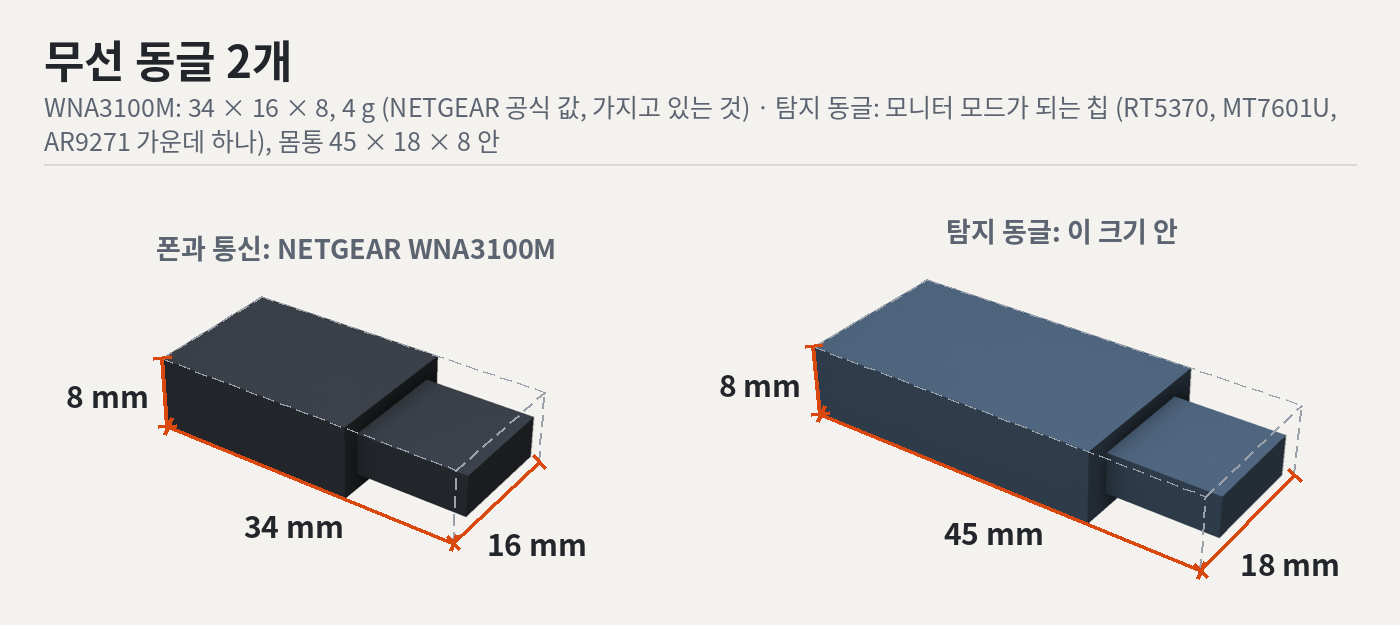
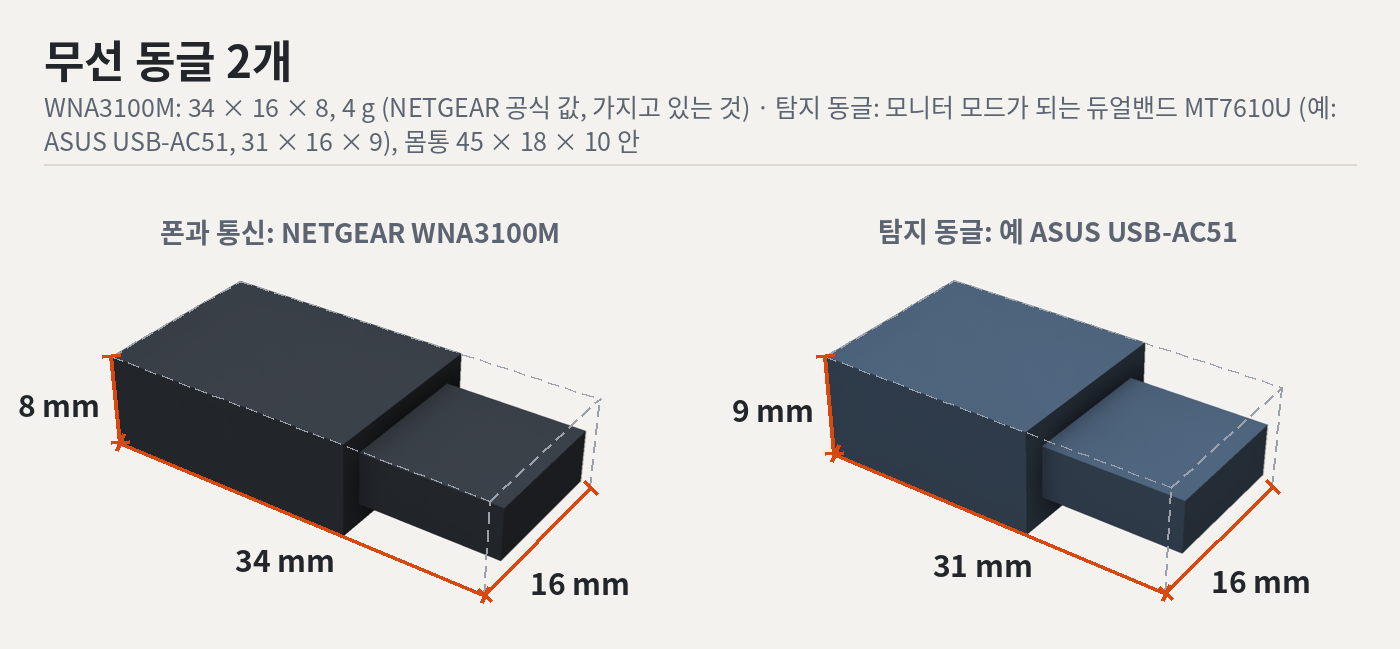
feat: 5GHz 탐지 지원 (듀얼밴드 동글, 채널 선택, 5GHz 회절 시뮬레이션)
- detect.py: 동글이 들을 수 있는 채널을 iw phy 에서 읽고, 처음 한 바퀴는 5GHz 를 모두, 그 뒤로는 AP 가 들린 5GHz 채널만 (5바퀴마다 다시 모두)
- node.py: 탐지·점검이 동글의 대역을 그대로 쓴다
- tests/test_band.py: iw phy 읽기와 채널 고르기 검사
- sim/direction/band5.py: 같은 판으로 5GHz(36·149번)에서 골과 방향 오차. 골이 더 깊고(-23dB) 30도 넘게 틀리는 비율이 12% -> 4~5%. 골 폭이 3도로 좁다
- 탐지 동글을 MT7610U 듀얼밴드(예: ASUS USB-AC51, 31x16x9)로 권함. 동글 칸 검사(dongle_gap)를 45x18x10 까지로 넓힘. 설계 바꿀 곳 없음
- 문서: 부품표, 탐지 동글 고르기, 설계 검토 2절, 의심 점수 8절

diff --git a/firmware/pi/detect.py b/firmware/pi/detect.py
@@ -20,12 +20,16 @@
   작은 프레임만 많이 보내는 기기(영상을 받는 쪽이 보내는 응답)와 가끔만 보내는 기기는 빠진다.
   영상 통화나 화면 공유처럼 카메라가 아닌데 많이 내보내는 기기는 여기서 못 가린다: 그것은 다음 단계(판별)가 한다.
 한계
-  안테나가 하나인 2.4GHz 동글은 5GHz 를 못 듣고, 안테나 두 개로 한꺼번에 보내는(2 스트림) 프레임도 못 읽는다. 몰래카메라는 거의 2.4GHz·안테나 하나다.
+  2.4GHz 전용 동글(RT5370, MT7601U)은 5GHz 를 못 듣는다. 듀얼밴드 동글(MT7610U, MT7612U)이면 5GHz 도 듣는다:
+  처음 한 바퀴는 5GHz 를 모두 훑고, 그 뒤로는 AP 가 들린 5GHz 채널만 돈다 (카메라는 어딘가의 AP 에 붙어야 하므로). FULL5 바퀴마다 다시 모두 훑는다.
+  안테나가 하나인 동글은 두 개로 한꺼번에 보내는(2 스트림) 프레임을 못 읽는다. 몰래카메라는 거의 안테나 하나다.
 """
 from __future__ import print_function
 import os, struct, subprocess, sys, time
 
 CH24 = (1, 2, 3, 4, 5, 6, 7, 8, 9, 10, 11, 12, 13)
+CH5 = (36, 40, 44, 48, 52, 56, 60, 64, 100, 104, 108, 112, 116, 120, 124, 128, 132, 136, 140, 144, 149, 153, 157, 161, 165)   # 한국 5GHz 20MHz 채널 (동글이 되는 것만 쓴다)
+FULL5 = 5                      # 이 바퀴마다 5GHz 를 모두 다시 훑는다 (새로 켠 5GHz 핫스팟을 찾으려고)
 MIN_RATE = 30.0                # 초당 데이터 프레임 수 (5초에 150개)
 MIN_LEN = 300.0                # 평균 길이 (바이트, 헤더와 암호 덧붙임을 뺀 것)
 WEAK_RSSI = -75.0              # 이보다 약하면 '다른 방일 수 있음'
@@ -290,6 +294,20 @@ class Monitor(object):
         if rc != 0 or rc2 != 0:
             raise RuntimeError("탐지 동글(%s, 드라이버 %s)을 모니터 모드로 바꾸지 못했습니다. 다른 프로그램이 쓰는 중인지 보세요:  sudo ./link_setup.sh check" % (ifc, self.driver))
 
+    def channels(self):
+        """이 동글이 들을 수 있는 채널 (iw phy 의 주파수 목록에서 꺼진 것을 뺀다). 못 읽으면 2.4GHz"""
+        if getattr(self, "_chans", None) is not None:
+            return self._chans
+        ch = ()
+        try:
+            out = subprocess.check_output(["iw", "dev", self.iface, "info"], universal_newlines=True)
+            phy = [l.split()[-1] for l in out.splitlines() if l.strip().startswith("wiphy")][0]
+            ch = parse_phy_channels(subprocess.check_output(["iw", "phy", "phy" + phy, "info"], universal_newlines=True))
+        except Exception:
+            pass
+        self._chans = ch or CH24
+        return self._chans
+
     def channel(self, ch):
         return subprocess.call(["sudo", "iw", "dev", self.iface, "set", "channel", str(int(ch))], stdout=subprocess.DEVNULL, stderr=subprocess.DEVNULL) == 0
 
@@ -309,10 +327,42 @@ class Monitor(object):
             self.proc = None
 
 
+def parse_phy_channels(text):
+    """'iw phy … info' 의 '* 5180 MHz [36] (20.0 dBm)' 줄에서 쓸 수 있는 채널 번호. disabled 는 뺀다 (no IR 은 듣기만 하므로 괜찮다)"""
+    out = []
+    for l in text.splitlines():
+        l = l.strip()
+        if l.startswith("*") and "MHz [" in l and "disabled" not in l:
+            try:
+                c = int(l.split("[", 1)[1].split("]", 1)[0])
+            except ValueError:
+                continue
+            if (c in CH24 or c in CH5) and c not in out:
+                out.append(c)
+    return tuple(out)
+
+
+def plan(supported, seen5=None, cycle=0):
+    """이번 바퀴에 훑을 채널: 2.4GHz 는 모두, 5GHz 는 처음·FULL5 바퀴마다 모두, 그 밖에는 AP 가 들린 채널만"""
+    c24 = [c for c in supported if c <= 14]; c5 = [c for c in supported if c > 14]
+    if not c5:
+        return tuple(c24)
+    if seen5 is None or cycle % FULL5 == 0:
+        return tuple(c24 + c5)
+    return tuple(c24 + [c for c in c5 if c in seen5])
+
+
+def ap_channels5(rows):
+    """5GHz 에서 AP(또는 AP 에 붙은 기기)가 들린 채널"""
+    return set(int(r["ch"]) for r in rows if r.get("ch") and int(r["ch"]) > 14)
+
+
 def scan(mon, channels=CH24, quick=0.6, focus=5.0, n_focus=3, path=PCAP, progress=None, extra=()):
     """채널을 한 번 훑고(채널마다 quick 초), 데이터가 많은 채널 n_focus 개를 focus 초씩 자세히 듣는다. 13채널이면 약 30초.
+    channels=None 이면 동글이 들을 수 있는 채널 모두 (듀얼밴드면 5GHz 까지).
     extra = 데이터가 적어도 꼭 자세히 들을 채널 (감시할 때: 의심 기기와 그 허브가 있는 채널. 몇 초마다 몰아서 보내는 카메라를 놓치지 않으려고)"""
     say = progress or (lambda *a: None)
+    channels = tuple(channels or mon.channels())
     mon.prepare(); mon.start(path); hops = []
     try:
         for k, ch in enumerate(channels):
@@ -374,11 +424,14 @@ if __name__ == "__main__":
         sys.exit(__doc__)
     if sys.argv[1] == "--check":
         print("USB 무선 장치:", usb_wifi() or "없음"); d = find_monitor()
+        if d:
+            c = Monitor().channels(); print("들을 수 있는 채널: %s (%s)" % (" ".join(map(str, c)), "2.4GHz 와 5GHz" if any(x > 14 for x in c) else "2.4GHz 만"))
         print("탐지 동글:", ("%s (드라이버 %s%s)" % (d["name"], d["driver"], "" if d["driver"] in MON_OK else ", 확인 안 된 드라이버")) if d else "없음 (모니터 모드가 되는 동글을 가운데 USB 자리에 꽂는다)")
     elif sys.argv[1] == "--live":
         m = Monitor()
         if not m.available():
             sys.exit("탐지 동글을 찾지 못했습니다.")
-        show(scan(m, progress=lambda s, a, b: print("  ", s)))
+        print("들을 수 있는 채널:", m.channels())
+        show(scan(m, None, progress=lambda s, a, b: print("  ", s)))
     else:
         show(analyse(read_frames(sys.argv[1])))

diff --git a/sim/direction/band5.py b/sim/direction/band5.py
@@ -1,0 +1,75 @@
+"""5GHz 에서도 같은 판(100 x 150mm, 축에서 80mm)으로 방향을 찾을 수 있나.   python3 band5.py [횟수]   결과: band5.json, 그림 37_5GHz_골.png
+
+판의 회절 모형(firmware/core/model.py)은 파장 하나로 계산한다. 그 파장만 2.4GHz 6번(123mm)에서 5GHz 36번(58mm)·149번(52mm)으로 바꾸고,
+montecarlo.py 와 같은 흉내(반사파, 누설, 패킷 수, 관절 오차)를 그대로 돌린다. 판 표는 주파수마다 따로 만든다 (firmware/core/cache/f<MHz>/).
+넣지 않은 것: 5GHz 가 벽·사람에 더 많이 막히는 것(거리가 줄어든다), 5GHz 에서 반사가 달라지는 것. 그래서 '같은 방이면 골은 어떻게 되나'까지만 본다."""
+import os as _os, sys as _sys; _sys.path.insert(0, _os.path.dirname(_os.path.dirname(_os.path.abspath(__file__))))      # sim/ 의 paths.py 를 찾는다
+import paths                                   # 계산 코드(core)를 찾는다
+import os, sys, json
+import numpy as np
+import model, world
+import montecarlo as mc
+
+HERE = os.path.dirname(os.path.abspath(__file__))
+BANDS = (("2.4GHz 6번", 2.437e9), ("5GHz 36번", 5.18e9), ("5GHz 149번", 5.745e9))
+CORE_CACHE = model.HERE
+
+
+def use(f):
+    """회절 모형의 파장을 바꾸고 판 표를 다시 읽는다"""
+    model.LAM = 299792458.0 / f * 1000.0; model.K = 2 * np.pi / model.LAM
+    model.HERE = CORE_CACHE if f < 3e9 else os.path.join(CORE_CACHE, "cache", "f%d" % int(round(f / 1e6)))
+    world.PLATES = [model.Plate(dist=d) for d in (1500.0, 3000.0, 5000.0)]
+    return world.PLATES
+
+
+def trough_width(d, L, lo=3.0):
+    """가장 깊은 골의 폭: 바닥에서 lo dB 안쪽인 각도 범위 (도)"""
+    i = int(np.argmin(L)); m = L <= L[i] + lo; a = i; b = i
+    while m[(a - 1) % len(L)] and b - a < len(L):
+        a -= 1
+    while m[(b + 1) % len(L)] and b - a < len(L):
+        b += 1
+    return float((b - a + 1) * (d[1] - d[0]))
+
+
+def main(n=300):
+    res = {}; curves = {}
+    for name, f in BANDS:
+        P = use(f)
+        cams, out = mc.run(n=n, strategies=["세워서 1번", "기울여 3번"], quiet=True)
+        S = mc.summarize(out)
+        d = np.arange(-180.0, 180.0, 0.5); L = P[1].level(0.0, d); curves[name] = (d, L)
+        res[name] = dict(lam_mm=round(model.LAM, 1), strategies=dict((k, v["전체"]) for k, v in S.items()),
+                         trough=dict(min_db=round(float(L.min()), 1), at=round(float(abs(d[np.argmin(L)])), 1), width3db=round(trough_width(d, L), 1)))
+        r = res[name]
+        print("%-11s 파장 %5.1fmm  골 %5.1fdB, ±%4.1f도, 폭 %4.1f도 | 기울여 3번: 가운데값 %4.1f도, 30도 넘음 %4.1f%% | 세워서 1번: %4.1f도" % (
+            name, r["lam_mm"], r["trough"]["min_db"], r["trough"]["at"], r["trough"]["width3db"],
+            r["strategies"]["기울여 3번"]["med"], r["strategies"]["기울여 3번"]["over30"], r["strategies"]["세워서 1번"]["med"]))
+    use(BANDS[0][1])
+    json.dump(dict(n=n, bands=res), open(os.path.join(HERE, "band5.json"), "w"), ensure_ascii=False, indent=1)
+    figure(curves, res)
+
+
+def figure(curves, res):
+    import matplotlib
+    matplotlib.use("Agg")
+    import matplotlib.pyplot as plt
+    from figures import style, head, SURF, C1, C2, C3, SUB
+    fig = plt.figure(figsize=(12, 6.2), facecolor=SURF)
+    head(fig, "5GHz 에서도 같은 판으로 골이 생긴다", "카메라 3m · 수평, 판 100 × 150mm. 파장이 짧아 골이 더 깊고 좁고 카메라 쪽에 가깝다")
+    ax = fig.add_axes([0.07, 0.12, 0.6, 0.66]); style(ax, "판이 카메라 쪽에서 돌아간 각도 (도)", "판이 없을 때 대비 세기 (dB)")
+    for (name, _), c in zip(BANDS, (C1, C2, C3)):
+        d, L = curves[name]; ax.plot(d, L, color=c, lw=2, label=name)
+    ax.set_xlim(-90, 90); ax.set_xticks(range(-90, 91, 30)); ax.legend(loc="lower left", frameon=False, fontsize=11)
+    ax2 = fig.add_axes([0.74, 0.12, 0.23, 0.66]); style(ax2, None, "방향 오차가 30도 넘는 비율 (%)")
+    names = [b[0] for b in BANDS]; v = [res[k]["strategies"]["기울여 3번"]["over30"] for k in names]
+    ax2.bar(range(3), v, color=(C1, C2, C3), width=0.6)
+    for i, x in enumerate(v):
+        ax2.text(i, x + 0.3, "%.1f%%" % x, ha="center", color=SUB, fontsize=11)
+    ax2.set_xticks(range(3)); ax2.set_xticklabels([k.replace(" ", "\n") for k in names], fontsize=10.5); ax2.set_title("기울여 3번 재기", color=SUB, fontsize=12)
+    fig.savefig(os.path.join(paths.IMG, "37_5GHz_골.png"), facecolor=SURF); plt.close(fig)
+
+
+if __name__ == "__main__":
+    main(int(sys.argv[1]) if len(sys.argv) > 1 else 300)

diff --git a/firmware/pi/node.py b/firmware/pi/node.py
@@ -301,7 +301,7 @@ class Node(object):
                     raise Stopped()
             rows, method = D.fake_rows(), "monitor"
         elif self.mon.refresh():
-            rows = D.scan(self.mon, tuple(channels or D.CH24), progress=lambda s, a, b: self.set(step=s, done=a, total=b)); method = "monitor"
+            rows = D.scan(self.mon, tuple(channels) if channels else None, progress=lambda s, a, b: self.set(step=s, done=a, total=b)); method = "monitor"
         else:
             rows = []; method = "csi"; chans = tuple(channels or D.CH24)
             for k, ch in enumerate(chans):
@@ -387,7 +387,7 @@ class Node(object):
         의심 기기가 둘 이상 애매하면 그때만 '걸으며 확인'을 한다 (walk=False 면 하지 않는다: 시험장처럼 사람이 걸을 수 없는 곳).
         의심 기기와 그 허브가 있는 채널은 바퀴마다 자세히 듣는다 (몇 초마다 몰아서 보내는 카메라를 놓치지 않으려고)."""
         T = self.tracker = SC.Tracker(); t_end = time.time() + 60.0 * float(minutes) if minutes else None
-        chans = tuple(channels or D.CH24); extra = []; asked = set()
+        extra = []; asked = set(); seen5 = None            # seen5: AP 가 들린 5GHz 채널 (듀얼밴드 동글일 때만 쓴다)
         logf = None
         if not self.dry:                                   # 바퀴마다의 표를 남긴다 (실험 S1~S5 를 host/watch_report.py 로 다시 계산한다)
             try:
@@ -412,11 +412,13 @@ class Node(object):
                     for _ in range(int(3 * 4)):
                         time.sleep(0.25 / self.speed); check()
                 elif self.mon.refresh():
+                    chans = tuple(channels) if channels else D.plan(self.mon.channels(), seen5, k)
                     rows = D.scan(self.mon, chans, quick=0.5, focus=cycle or 6.0, n_focus=2, extra=extra,
                                   progress=lambda s, a, b: (check(), self.set(step="감시 %d바퀴째 · %s" % (k + 1, s))))
                 else:
                     raise RuntimeError("점검에는 탐지 동글이 필요합니다 (기기마다 길이와 주소 짝을 봐야 한다). 동글을 꽂고 다시 하세요.")
                 now = time.time(); T.update(rows, now); self.survey = rows
+                seen5 = (seen5 or set()) | D.ap_channels5(rows)
                 if logf:
                     logf.write(json.dumps(dict(t=now, rows=rows, walk=dict(T.walk), mine=sorted(T.my)), ensure_ascii=False) + "\n"); logf.flush()
                 r = publish()

diff --git a/firmware/tests/test_band.py b/firmware/tests/test_band.py
@@ -1,0 +1,40 @@
+#!/usr/bin/env python3
+# -*- coding: utf-8 -*-
+"""detect.py 의 5GHz 채널 고르기 검사: iw phy 출력 읽기, 바퀴마다 훑을 채널 (docs/의심 점수.md 8절).   python3 tests/test_band.py"""
+import os, sys
+HERE = os.path.dirname(os.path.abspath(__file__)); sys.path.insert(0, os.path.join(HERE, "..", "pi"))
+import detect as D
+
+PHY = """Wiphy phy1
+	Band 1:
+		Frequencies:
+			* 2412 MHz [1] (20.0 dBm)
+			* 2437 MHz [6] (20.0 dBm)
+			* 2472 MHz [13] (20.0 dBm)
+			* 2484 MHz [14] (disabled)
+	Band 2:
+		Frequencies:
+			* 5180 MHz [36] (20.0 dBm)
+			* 5200 MHz [40] (20.0 dBm)
+			* 5260 MHz [52] (20.0 dBm) (no IR, radar detection)
+			* 5745 MHz [149] (20.0 dBm)
+			* 5865 MHz [173] (disabled)
+"""
+
+
+def main():
+    c = D.parse_phy_channels(PHY)
+    assert c == (1, 6, 13, 36, 40, 52, 149), c                       # 꺼진 14·173 은 빼고, 레이더 채널(no IR)은 듣기만 하므로 넣는다
+    assert D.parse_phy_channels("Band 1:\n * 2412 MHz [1] (20.0 dBm)\n") == (1,)
+    assert D.plan((1, 6, 11)) == (1, 6, 11)                            # 2.4GHz 동글: 그대로
+    assert D.plan(c, None, 0) == c                                      # 처음 바퀴: 모두
+    assert D.plan(c, {149}, 1) == (1, 6, 13, 149)                       # 그 뒤: AP 가 들린 5GHz 채널만
+    assert D.plan(c, set(), 2) == (1, 6, 13)
+    assert D.plan(c, {149}, D.FULL5) == c                               # FULL5 바퀴마다 다시 모두
+    rows = [dict(ch=6), dict(ch=149), dict(ch=36), dict(ch=None)]
+    assert D.ap_channels5(rows) == {36, 149}
+    print("5GHz 채널 고르기 검사 통과: 처음 %d채널, 그 뒤 %d채널" % (len(D.plan(c, None, 0)), len(D.plan(c, {149}, 1))))
+
+
+if __name__ == "__main__":
+    main()

diff --git a/cad/model/p2.py b/cad/model/p2.py
@@ -170,7 +170,7 @@ BATT_T = 22.0                    # 배터리 두께 한계 (선이 배터리 위
 BATT_IN = 18.0                   # 배터리 앞끝이 받침 바깥면에서 들어간 깊이. ㄱ자 USB 플러그가 받침 안에 들어온다
 LAN_NOTCH = (6.5, 20.0)          # 받침 뒤의 랜선 홈 (반폭, 아래끝 높이). 덮개를 덮기 전에 위에서 눌러 넣는다
 LANCAP = dict(side=0.15, slot=0.15, t_out=0.8, t_in=1.7, lap=2.5)     # 랜선 홈 마개: 옆 틈, 벽을 무는 틈, 바깥·안쪽 날개 두께, 날개가 벽에 겹치는 폭
-DONGLE2 = dict(L=34.0, W=16.0, T=8.0, plug=12.0, x=29.0, up=12.0)   # 탐지용 둘째 동글 (모니터 모드, RT5370·MT7601U 계열): 가운데 USB(전원쪽 변에서 29)의 위 칸. 크기는 넉넉히 34 x 16 x 8 로 잡았다. 길이 45, 폭 18 까지 들어간다 (check2.py)
+DONGLE2 = dict(L=34.0, W=16.0, T=8.0, plug=12.0, x=29.0, up=12.0)   # 탐지용 둘째 동글 (모니터 모드, 듀얼밴드 MT7610U 의 ASUS USB-AC51 31 x 16 x 9 를 권함. RT5370·MT7601U 도 된다): 가운데 USB(전원쪽 변에서 29)의 위 칸. 모델은 34 x 16 x 8. 길이 45, 폭 18, 두께 10 까지 들어간다 (dongle_gap.py)
 DONGLE = dict(L=34.0, W=16.0, T=8.0, plug=12.0, x=47.0, up=12.0)    # 무선 동글 WNA3100M (34 x 16 x 8). 꽂는 자리: 파이의 GPIO 쪽 USB(전원쪽 변에서 47), 2단 중 위 칸(보드 윗면에서 12)
 
 MIDNIGHT = "#1B2A57"             # 미드나잇 블루 (그림용)

diff --git a/cad/checks/dongle_gap.py b/cad/checks/dongle_gap.py
@@ -1,5 +1,5 @@
 """USB 동글 두 개(폰과 통신하는 것, 탐지용)의 틈: 서로, 요크와, 받침과. 끄덕임 전 범위에서 잰다.   python3 dongle_gap.py
-탐지 동글은 모델(34 x 16 x 8)과 들어가는 가장 큰 크기(45 x 18 x 8) 두 가지로 본다."""
+탐지 동글은 모델(34 x 16 x 8), 듀얼밴드 ASUS USB-AC51(31 x 16 x 9), 들어가는 가장 큰 크기(45 x 18 x 10) 세 가지로 본다."""
 import os, sys, json
 HERE = os.path.dirname(os.path.abspath(__file__)); sys.path[:0] = [HERE] + [os.path.join(os.path.dirname(HERE), d) for d in ("model", "export", "checks", "analysis", "figures")]      # cad 의 하위 폴더를 모두 찾는다
 import numpy as np
@@ -26,8 +26,9 @@ def run(tag, d):
     print(tag, out[tag])
 run("무선 동글 34x16x8", DONGLE)
 run("탐지 동글 34x16x8", DONGLE2)
-big = dict(DONGLE2, L=45.0, W=18.0)
-run("탐지 동글 45x18x8", big)
+run("탐지 동글 AC51 31x16x9", dict(DONGLE2, L=31.0, W=16.0, T=9.0))
+big = dict(DONGLE2, L=45.0, W=18.0, T=10.0)
+run("탐지 동글 45x18x10", big)
 g1 = P.dongle_dummy(DONGLE).min_gap(P.dongle_dummy(DONGLE2), 30.0); g2 = P.dongle_dummy(DONGLE).min_gap(P.dongle_dummy(big), 30.0)
 out["동글 사이"] = dict(small=round(g1, 1), big=round(g2, 1)); print("동글 사이", out["동글 사이"])
 # 머리 치마 밖으로 나오는 길이

diff --git a/cad/figures/fig_parts.py b/cad/figures/fig_parts.py
@@ -305,9 +305,9 @@ def bought():
     # 무선 동글 두 개
     def dongle(L, Wd, T, plug=12.0):
         return box(0, L - plug, -Wd / 2, Wd / 2, 0, T) , box(L - plug, L, -6.0, 6.0, T / 2 - 2.25, T / 2 + 2.25)
-    a1, a2 = dongle(34, 16, 8); b1, b2 = dongle(45, 18, 8)
-    boxed_card([(a1 + a2, DARK, "폰과 통신: NETGEAR WNA3100M"), (b1 + b2, "#3A4A5C", "탐지 동글: 이 크기 안")],
-               "무선 동글 2개", "WNA3100M: 34 × 16 × 8, 4 g (NETGEAR 공식 값, 가지고 있는 것) · 탐지 동글: 모니터 모드가 되는 칩 (RT5370, MT7601U, AR9271 가운데 하나), 몸통 45 × 18 × 8 안",
+    a1, a2 = dongle(34, 16, 8); b1, b2 = dongle(31, 16, 9)
+    boxed_card([(a1 + a2, DARK, "폰과 통신: NETGEAR WNA3100M"), (b1 + b2, "#3A4A5C", "탐지 동글: 예 ASUS USB-AC51")],
+               "무선 동글 2개", "WNA3100M: 34 × 16 × 8, 4 g (NETGEAR 공식 값, 가지고 있는 것) · 탐지 동글: 모니터 모드가 되는 듀얼밴드 MT7610U (예: ASUS USB-AC51, 31 × 16 × 9), 몸통 45 × 18 × 10 안",
                "구매_무선_동글.png", el=32, gap=26)
 
 

diff --git a/docs/조립 안내.md b/docs/조립 안내.md
@@ -37,7 +37,7 @@ tags:
 | 드라이버 보드 (ULN2003, 35×32mm) | 보드 폭 36mm 안. 구멍 간격이 기둥(29.5×26.5mm)과 한 방향으로 1mm 까지 다르면 나사 네 개, 두 방향 다 1mm 다르면 한쪽 두 개 | 보드 구멍(지름 3)에 가는 M2 나사를 써서 구멍마다 0.5mm 씩 비켜도 들어간다. 흔한 보드(구멍이 모서리에서 2.5~3mm)는 네 개가 다 들어간다 |
 | 전원 버튼 모듈 (KY-004) | 기판 16.5×20.5mm 까지 | 기판 왼쪽 위 귀를 옆벽과 윗턱에 대면 된다. 버튼이 3.0mm 까지 비켜도 뚜껑 구멍(지름 9.5) 안에 든다 |
 | 무선 동글 (WNA3100M) | 34×16×8mm (NETGEAR 공식 값) | 가지고 있는 것 그대로. 꽂으면 머리 치마 안에 거의 다 숨는다 |
-| 탐지 동글 | 몸통 45×18×8mm 안 | RT5370, MT7601U 계열의 작은 동글 (안테나가 몸통 안에 든 것) |
+| 탐지 동글 | 몸통 45×18×10mm 안 | MT7610U 듀얼밴드의 작은 동글 (예: ASUS USB-AC51, 31×16×9mm, 안테나가 몸통 안에 든 것). 2.4GHz 전용 RT5370·MT7601U 도 들어간다 |
 | 전원 플러그 | 양쪽 다 ㄱ자 | 파이 쪽은 옆 자리가 12mm뿐이고, 배터리 쪽은 받침 창 안에 들어가야 한다 (2절의 케이블) |
 | 알루미늄 판 | 100 × 150mm, 1T (두께 0.8~1.2mm 면 된다) | 판 틀 홈은 판보다 둘레가 0.2mm 씩 크고 깊이가 1.15mm 다. 누름쇠 자리가 판 앞면보다 0.2mm 낮아서 판이 조금 얇아도 누름쇠가 판을 누른다. 동전은 12개 (저울이 없어도 된다) |
 | 파이 안테나 자리 | 모델은 SD카드 쪽 짧은 변에서 5mm, GPIO 쪽 긴 변에서 14mm 로 잡았다 | 재지 않아도 된다. 3mm 틀려도 판이 도는 축이 안테나에서 그만큼 비켜 방향이 많아야 2°쯤 치우친다 (판까지 80mm 이므로 3/80 라디안. DiffLoc+ 의 민감도 분석도 1cm 에 6°) |
@@ -63,7 +63,7 @@ tags:
 | 점퍼선 암-암 20cm | 2가닥 | 전원 버튼에서 파이 5번·6번 핀까지 |
 | Y 분배 점퍼 케이블 (듀폰, 암 1개 → 암 2개, '1분배2') | 1개 | 파이 4번 핀의 5V 를 드라이버 1과 2에 나눈다. 꽂기만 하면 되니 납땜이 필요 없다. 못 구하면 레버식 전선 연결 단자(3구) 하나와 점퍼선으로 만들거나, 피복을 벗긴 끝을 단단히 꼬아 절연테이프를 감는다 |
 | 무선 동글 (가지고 있는 NETGEAR WNA3100M) | 1개 | 폰과 통신하는 둘째 Wi-Fi. 새로 살 필요 없다. 34×16×8mm, 4g (NETGEAR 공식 값), 2.4GHz |
-| 탐지 동글: 모니터 모드가 되는 USB 무선 동글 (칩이 RT5370, MT7601U, AR9271 가운데 하나) | 1개 (권함) | 둘레 기기를 엿들어 카메라 후보를 추린다. 2.4GHz, 안테나가 몸통 안에 든 작은 것. 몸통이 45×18×8mm 안쪽이어야 한다. 없어도 수신기는 돈다 (그때는 초당 개수만으로 고른다) |
+| 탐지 동글: 모니터 모드가 되는 듀얼밴드(2.4·5GHz) USB 무선 동글. 칩이 MT7610U 인 작은 것 (예: ASUS USB-AC51, 31×16×9mm) | 1개 (권함) | 둘레 기기를 엿들어 카메라 후보를 추린다. 5GHz 카메라와 핫스팟도 듣는다. 안테나가 몸통 안에 든 작은 것, 몸통이 45×18×10mm 안쪽. 드라이버(mt76x0u)가 파이 커널에 들어 있다. 2.4GHz 전용(RT5370, MT7601U)도 꽂으면 돌지만 5GHz 를 못 듣는다. 없어도 수신기는 돈다 (그때는 초당 개수만으로 고른다) |
 | 케이블 타이 (폭 2.5mm, 길이 10cm) | 3~4개 | 머리 아래에서 전선 셋을 한데 묶는다 |
 | AR 마커 종이 (`marker/AR_마커.pdf` 를 A4에 인쇄) | 1장 | 폰이 수신기가 놓인 자리를 알아내는 데 쓴다. 조금 두꺼운 종이(명함지, 160~200g)에 실제 크기(100%)로 인쇄한다. 풀이나 테이프 없이 틀로 덮어 나사로 조인다 |
 | M3 나사 둥근머리 6mm | 18개 + 예비 | 모터 귀 6, 뚜껑 4, 부채꼴 기어 2, 마커 틀 4, 핀 막이 2. 이 자리에는 꼭 6mm만 쓴다 |
@@ -95,7 +95,7 @@ tags:
 | 전원 케이블, 양쪽 ㄱ자 | 1 | 길이 50cm (받침에서 머리까지 약 34cm) |  | 받침 → 가운데 통 → 머리 안 파이 전원 단자 |
 | 전원 버튼 모듈 KY-004 | 1 | 기판 15 × 18.5 (자리는 16.5 × 20.5 까지) | 약 2g | 머리 왼쪽 받침 살 |
 | 무선 동글 WNA3100M | 1 | 34 × 16 × 8 (NETGEAR 공식 값) | 4g | 파이 GPIO 쪽 USB 위 칸 |
-| 탐지 동글 | 1 | 몸통 45 × 18 × 8 안 |  | 파이 가운데 USB 위 칸 |
+| 탐지 동글 | 1 | 몸통 45 × 18 × 10 안 |  | 파이 가운데 USB 위 칸 |
 | M3 나사 둥근머리 | 33 | 머리 지름 5.5~6, 높이 2.4. 길이 6 (18개), 8 (7개), 10 (8개) |  | 아래 나사 표 |
 | M3 나사 접시머리 | 6 | 머리 지름 6, 90° 접시. 길이(머리 포함) 6 (4개), 8 (2개) |  | 판 틀 4, 누름쇠 2 |
 | M3 너트 | 7 | 맞변 5.5, 두께 2.4 | 0.35g | 판 받이 4, 판 틀 뒷면 2, 모터 축 고정 1 |

diff --git a/docs/네 단계 검토.md b/docs/네 단계 검토.md
@@ -43,15 +43,19 @@ tags:
 | 공유기 (내려보내는 쪽) | 많음 | 큼 | '공유기?' 표시. 카메라가 직접 Wi-Fi를 만드는 종류도 이렇게 보인다 |
 | 신호가 약한 후보 (−75dBm 아래) | | | '후보 (약함)': 다른 방일 수 있다 |
 
-**탐지 동글 고르기.** 2.4GHz, 안테나가 몸통 안에 든 작은 것. 칩이 아래 가운데 하나여야 한다. 파이의 커널(5.4)에 드라이버가 들어 있어 따로 설치할 것이 없다.
+**탐지 동글 고르기.** 모니터 모드가 되고 안테나가 몸통 안에 든 작은 것. **듀얼밴드(2.4·5GHz)를 권한다**: 5GHz 카메라와 5GHz 로 연 핫스팟도 듣는다. 칩이 아래 가운데 하나면 파이의 커널(5.4)에 드라이버가 들어 있어 따로 설치할 것이 없다.
 
-| 칩 | 드라이버 | 메모 |
-|---|---|---|
-| Ralink RT5370 | rt2800usb | 가장 흔하고 싸다 |
-| MediaTek MT7601U | mt7601u | 흔하다 |
-| Atheros AR9271 | ath9k_htc | 모니터 모드로 오래 쓰인 칩. 안테나가 밖에 달린 제품이 많으니 작은 것을 고른다 |
+| 칩 | 드라이버 | 듣는 대역 | 메모 |
+|---|---|---|---|
+| **MediaTek MT7610U** | mt76x0u | 2.4·5GHz | **권함.** 작은 제품: ASUS USB-AC51 (31 × 16 × 9mm, 안테나 내장). 모니터 모드가 된다고 알려져 있다 |
+| MediaTek MT7612U | mt76x2u | 2.4·5GHz | 모니터 모드가 가장 잘 된다고 알려졌지만 작은 제품이 드물다 (ALFA AWUS036ACM 은 커서 USB 연장선으로 밖에 단다) |
+| Ralink RT5370 | rt2800usb | 2.4GHz | 가장 흔하고 싸다. 5GHz 를 못 듣는다 |
+| MediaTek MT7601U | mt7601u | 2.4GHz | 흔하다. 5GHz 를 못 듣는다 |
+| Atheros AR9271 | ath9k_htc | 2.4GHz | 모니터 모드로 오래 쓰인 칩. 안테나가 밖에 달린 제품이 많으니 작은 것을 고른다 |
 
-- 크기는 몸통이 **45 × 18 × 8mm 안쪽**이어야 한다. 가운데 USB의 위 칸에 꽂는다. 34 × 16 × 8mm짜리면 옆의 무선 동글과 2.0mm, 요크와 10.9mm 떨어진다. 45 × 18 × 8mm면 1.0mm, 6.5mm다.
+- 크기는 몸통이 **45 × 18 × 10mm 안쪽**이어야 한다. 가운데 USB의 위 칸에 꽂는다. ASUS USB-AC51(31 × 16 × 9mm)이면 옆의 무선 동글과 2.0mm, 요크와 10.8mm 떨어진다. 가장 큰 45 × 18 × 10mm면 1.0mm, 6.3mm다.
+- 꽂은 뒤 `python3 detect.py --check` 가 '들을 수 있는 채널'에 36·149 같은 5GHz 채널을 보여 주면 된다. mt76 드라이버는 커널에 따라 모니터 모드가 안 되는 일이 있다고 알려져 있으니, 사기 전에 받을 수 있으면 먼저 꽂아 본다.
+- 5GHz 까지 들으면 처음 한 바퀴가 약 20초 길어진다. 그 뒤로는 AP 가 들린 5GHz 채널만 돌아 몇 초만 늘어난다.
 - 전류: 파이 + 모터 1개 + 동글 2개가 같이 쓰면 많아야 1.7A쯤이다. 보조배터리의 2A 넘는 단자에 꽂는다.
 
 **동글이 없으면.** 수신기는 그대로 돈다. 내장 Wi-Fi를 채널마다 1.5초씩 돌려 CSI가 초당 몇 개 오는지만 보고, 30개 넘는 기기를 후보로 친다. 길이를 모르니 응답만 많이 보내는 기기도 후보로 뜬다.

diff --git a/docs/부품표.md b/docs/부품표.md
@@ -309,7 +309,7 @@ tags:
 | 전원 케이블, 양쪽 ㄱ자 | 1 | 길이 50cm (받침에서 머리까지 약 34cm) |  | 받침 → 가운데 통 → 머리 안 파이 전원 단자 |
 | 전원 버튼 모듈 KY-004 | 1 | 기판 15 × 18.5 (자리는 16.5 × 20.5 까지) | 약 2g | 머리 왼쪽 받침 살 |
 | 무선 동글 WNA3100M | 1 | 34 × 16 × 8 (NETGEAR 공식 값) | 4g | 파이 GPIO 쪽 USB 위 칸 |
-| 탐지 동글 | 1 | 몸통 45 × 18 × 8 안 |  | 파이 가운데 USB 위 칸 |
+| 탐지 동글 | 1 | 몸통 45 × 18 × 10 안 |  | 파이 가운데 USB 위 칸 |
 | 6mm 비비탄 | 45 | 지름 6 |  | 받침 덮개 둥근 테 홈 |
 | AR 마커 종이 | 1 | 인쇄한 띠 108 × 44 (A4에 실제 크기로) |  | 머리 등판, 마커 틀 아래 |
 
@@ -364,9 +364,9 @@ tags:
 ![무선 동글](images/부품/구매_무선_동글.png)
 
 - **무선 동글 WNA3100M** (1개): 34 × 16 × 8 (NETGEAR 공식 값). 무게 4g. 들어가는 곳: 파이 GPIO 쪽 USB 위 칸.
-- **탐지 동글** (1개): 몸통 45 × 18 × 8 안. 들어가는 곳: 파이 가운데 USB 위 칸.
+- **탐지 동글** (1개): 몸통 45 × 18 × 10 안. 들어가는 곳: 파이 가운데 USB 위 칸.
 - 준비: **무선 동글 (가지고 있는 NETGEAR WNA3100M)** — 1개. 폰과 통신하는 둘째 Wi-Fi. 새로 살 필요 없다. 34×16×8mm, 4g (NETGEAR 공식 값), 2.4GHz
-- 준비: **탐지 동글: 모니터 모드가 되는 USB 무선 동글 (칩이 RT5370, MT7601U, AR9271 가운데 하나)** — 1개 (권함). 둘레 기기를 엿들어 카메라 후보를 추린다. 2.4GHz, 안테나가 몸통 안에 든 작은 것. 몸통이 45×18×8mm 안쪽이어야 한다. 없어도 수신기는 돈다 (그때는 초당 개수만으로 고른다)
+- 준비: **탐지 동글: 모니터 모드가 되는 듀얼밴드(2.4·5GHz) USB 무선 동글. 칩이 MT7610U 인 작은 것 (예: ASUS USB-AC51, 31×16×9mm)** — 1개 (권함). 둘레 기기를 엿들어 카메라 후보를 추린다. 5GHz 카메라와 핫스팟도 듣는다. 안테나가 몸통 안에 든 작은 것, 몸통이 45×18×10mm 안쪽. 드라이버(mt76x0u)가 파이 커널에 들어 있다. 2.4GHz 전용(RT5370, MT7601U)도 꽂으면 돌지만 5GHz 를 못 듣는다. 없어도 수신기는 돈다 (그때는 초당 개수만으로 고른다)
 
 ### AR 마커 종이
 

diff --git a/docs/설계 검토.md b/docs/설계 검토.md
@@ -106,6 +106,20 @@ tags:
 - **장치에는 아직 넣지 않았다.** 기준 곡선이 있어야 한다. 여기서는 계산으로 얻은 곡선이라 가장 좋은 경우다. 실물에서는 탁 트인 곳에서 재 둔 곡선이 필요하고, 계산으로 만든 기준 곡선은 5절에서 보듯 믿을 수 없다. 그래서 실물 곡선을 재 본 뒤(13절의 5번) 두 방법을 같은 자리에서 견주고 정한다.
 
 
+**5GHz 에서도** (`sim/direction/band5.py`). 탐지 동글을 듀얼밴드로 바꾸면 5GHz 카메라도 찾는다. 위치를 재는 파이 칩도 5GHz CSI 를 뽑으므로, 같은 판으로 골이 생기는지 회절 모형의 파장만 바꿔 같은 흉내를 돌렸다 (방향 300개씩).
+
+![5GHz 골](images/37_5GHz_골.png)
+
+| 채널 | 파장 | 골 깊이 | 골 자리 | 골 폭 (3dB) | 세 번 재기: 가운데값 | 30° 넘게 틀림 |
+|---|---|---|---|---|---|---|
+| 2.4GHz 6번 | 123mm | -11dB | ±30° | 17.5° | 5.4° | 12.0% |
+| 5GHz 36번 | 58mm | -23dB | ±16° | 3.0° | 5.3° | 4.7% |
+| 5GHz 149번 | 52mm | -22dB | ±14° | 3.5° | 4.8° | 3.7% |
+
+- 파장이 절반이라 같은 판이 파장에 견주어 두 배로 커진다. 골이 두 배쯤 깊고, 카메라 쪽에 더 가깝고, 크게 틀리는 일이 줄었다.
+- 대신 골 폭이 3° 안팎으로 좁다. 모터는 0.1° 단위로 돌아 괜찮지만, 각도마다 패킷이 충분해야 한다. 손으로 5° 간격으로 옮기며 재면 골을 건너뛸 수 있다 (5GHz 손 측정은 2° 간격).
+- 넣지 않은 것: 5GHz 는 벽과 사람에 더 많이 막혀 같은 방에서도 신호가 약하고, 반사도 다르다. 그래서 '같은 판으로 된다'까지만 말할 수 있고, 거리는 실물로 잰다.
+
 ## 3. 위치 찾기: 카메라가 방 어디에 있어도
 
 카메라는 벽에만 있지 않다 (방 한가운데 화분, 탁자 위 물건). 그래서 벽을 가정하지 않는 방법을 여러 개 견줬다 (`sim/location/locate3d.py`).

diff --git a/docs/의심 점수.md b/docs/의심 점수.md
@@ -122,7 +122,7 @@ tags:
 - 카메라 자체에 LTE가 있는 경우
 - 녹화만 하는 SD 저장형 카메라 (렌즈 반사 점검을 같이 쓰라고 안내)
 - **AI 안경 (스마트글래스)**: 공개된 시험 부정행위 사례(토익, 대학 논술, 중고교)는 대부분 안경으로 찍고 AI 답을 스피커나 렌즈 화면으로 받는 방식이다. 안경과 폰은 블루투스로 붙고 폰이 LTE로 내보내므로 Wi-Fi 에는 안 보인다. 파이의 블루투스로 '켜진 AI 안경이 있다'까지는 알릴 수 있어 확장 후보로만 둔다 (위치는 회절판으로 못 잰다)
-- **5GHz 로 붙은 장비**: 지금 탐지 동글(RT5370, MT7601U, AR9271)은 2.4GHz 만 듣는다. 초소형 카메라는 거의 2.4GHz 전용이라 카메라가 붙는 허브도 2.4GHz 를 열지만, 5GHz 카메라가 나오면 놓친다. 듀얼밴드 동글(MT7612U)로 바꾸면 풀린다
+- ~~5GHz 로 붙은 장비~~ → **범위 안으로 옮겼다 (2026-11-16)**: 탐지 동글을 듀얼밴드 MT7610U(ASUS USB-AC51 등)로 바꾸면 5GHz 도 듣는다 (`pi/detect.py`: 처음 한 바퀴는 5GHz 를 모두, 그 뒤로는 AP 가 들린 5GHz 채널만, 5바퀴마다 다시 모두). 위치는 파이 칩이 5GHz CSI 도 뽑고, 같은 판으로 골이 더 깊게 생긴다 (`sim/direction/band5.py`). 2.4GHz 전용 동글을 꽂으면 전처럼 2.4GHz 만 듣는다
 
 실제 사례도 이 범위를 생각하고 읽는다. 세무사 사건은 전송 방식이 공개되지 않았고, TOPIK 사건은 이어폰과 송수신기라 LTE·블루투스였을 가능성이 크다. Wi-Fi가 확인된 것은 튀르키예 사건이다(11절의 바탕 자료).
 
